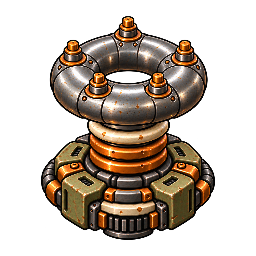
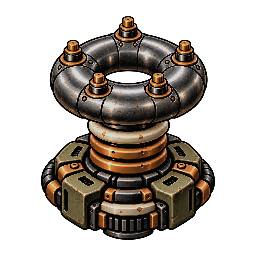
Grade the Tesla toroid head into the head palette; palette test covers standalone head sprites

Changed region(s): [[0.1562, 0.0625, 0.8438, 0.9375]]

diff --git a/reports/tesla-toroid-integration.md b/reports/tesla-toroid-integration.md
@@ -44,3 +44,5 @@ User supplied the successful capture output after the tooling correction. Opened
 ### User confirmation
 
 2026-10-30: user explicitly confirmed the requested tests passed and browser console was clean after disk launch. This records user-run validation, not agent execution. Independent second visual review remains required before merge.
+
+2026-10-30 follow-up: the baked toroid is then put through the head palette pipeline with `node tools/grade-head-sprite.cjs tesla-toroid assets/hunger-tesla-toroid-v1.png` (shadow-only local contrast, grade to the foundation palette, 5-15% highlights); `tests/level4-palette.cjs` checks it. A re-bake must be followed by this step.
